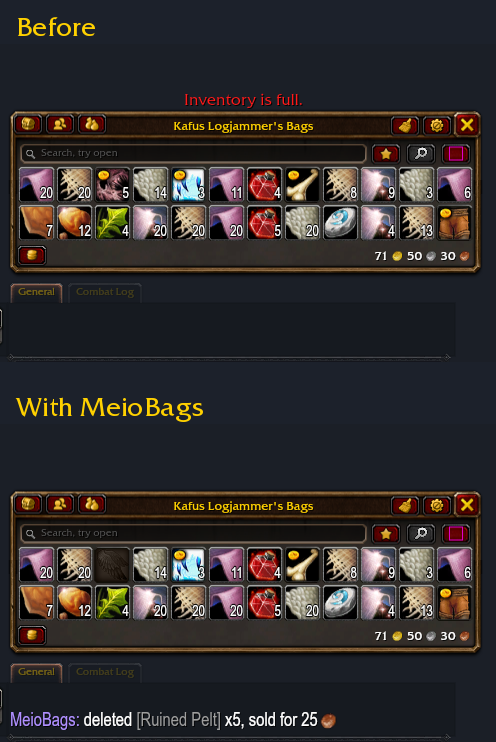
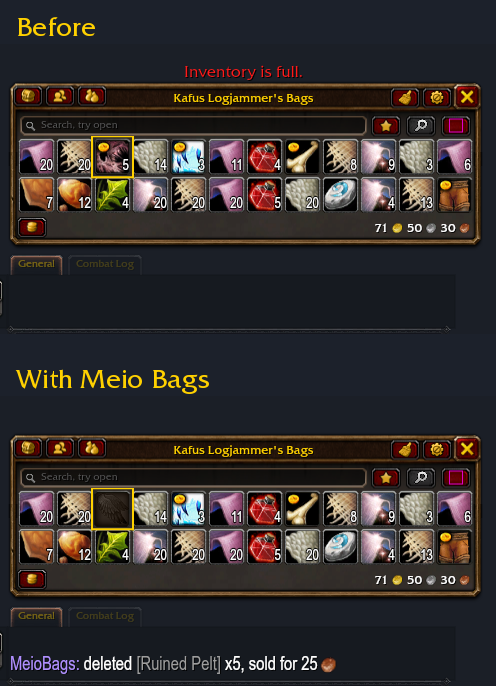
Listing images: gold box on the emptied slot, Meio Bags label; vendor sell shot

diff --git a/README.md b/README.md
@@ -4,7 +4,7 @@ One key deletes your cheapest junk when your bags are full.
 
 For WoW Forever.
 
-![Full bags: before, "Inventory is full."; with MeioBags, one key press deleted the cheapest
+![Full bags: before, "Inventory is full."; with Meio Bags, one key press deletes the cheapest
 grey stack, Ruined Pelt x5, and says so in chat](docs/before-after.png)
 
 ## What it does
